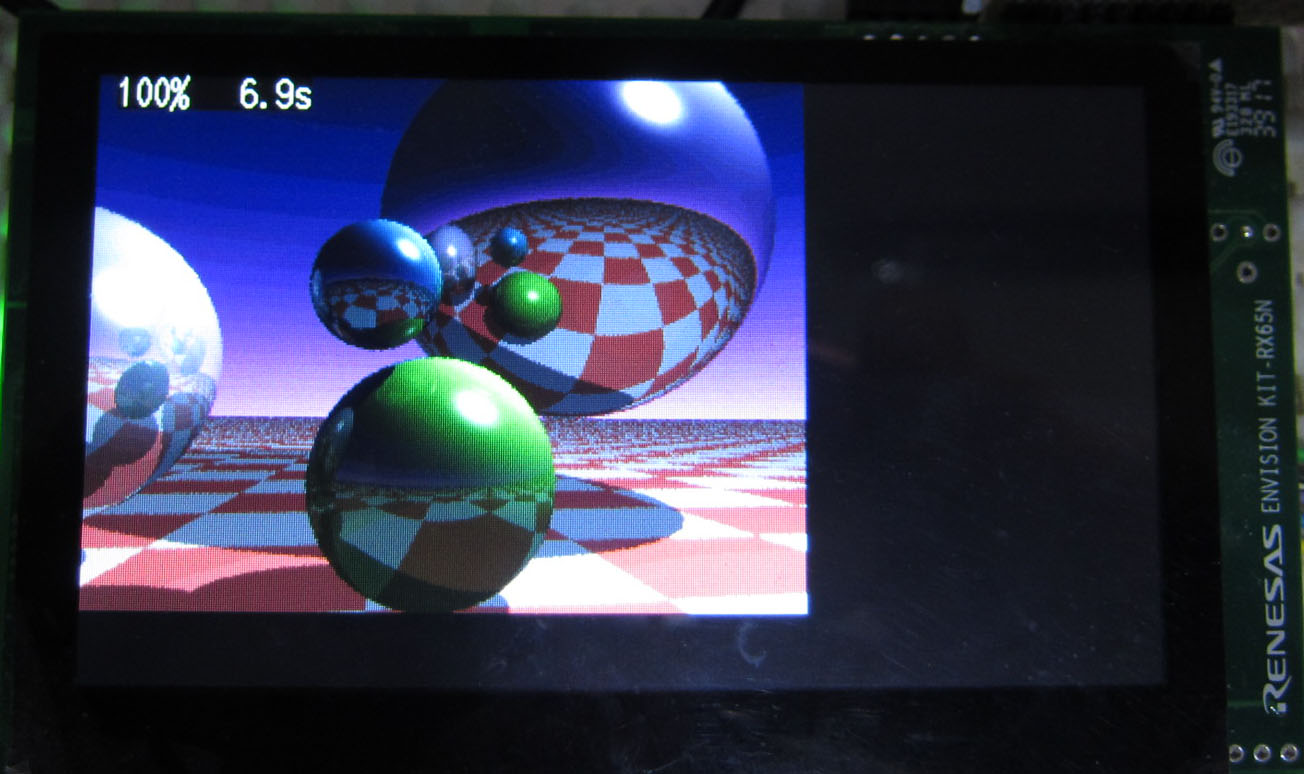
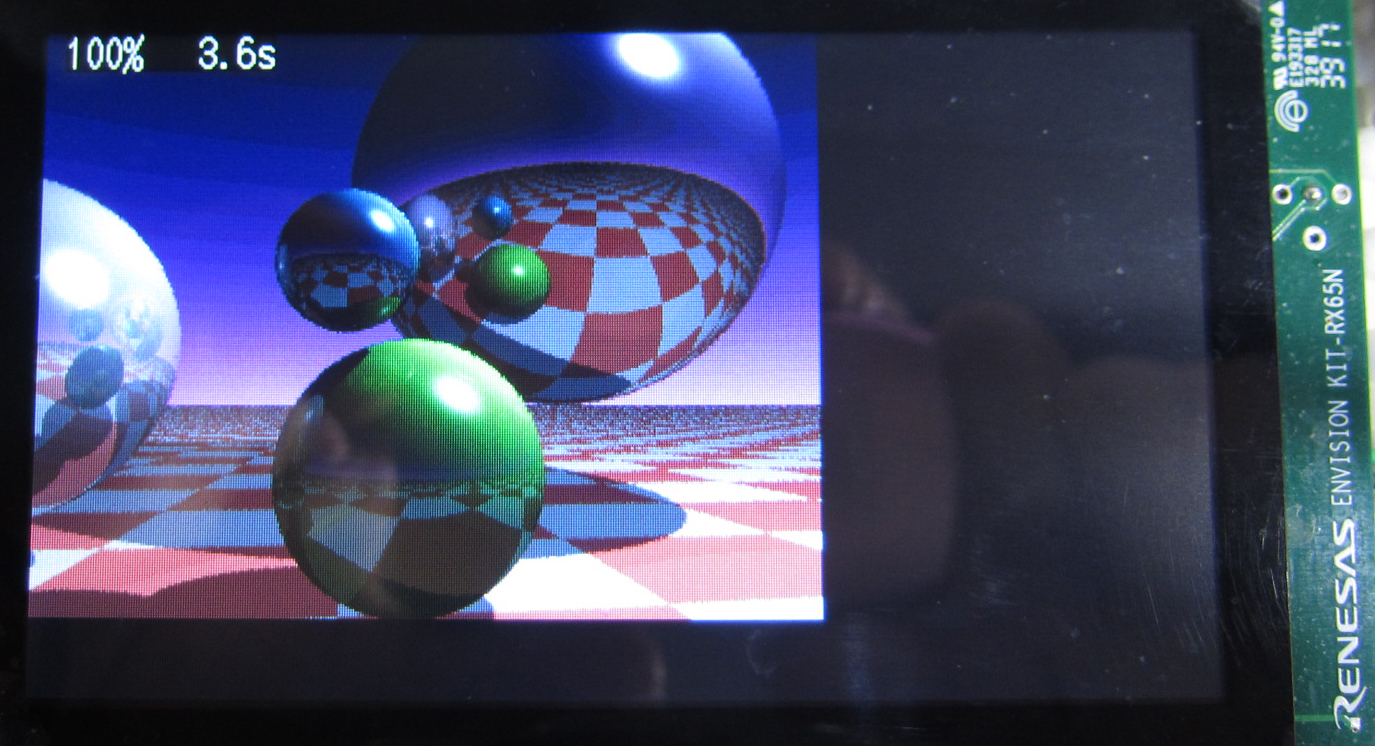
update: sqrtf to FSQRT

diff --git a/RTK5_RAYTRACER/raytracer.hpp b/RTK5_RAYTRACER/raytracer.hpp
@@ -21,6 +21,34 @@ extern "C" {
 	uint32_t millis(void);
 };
 
+#if defined(SIG_RX64M) || defined(SIG_RX71M) || defined(SIG_RX65N) || defined(SIG_RX24T)
+static inline float sqrtf_(float x)
+{
+    __asm __volatile(
+        "fsqrt %0, %0\n" \
+        : "+r"(x) \
+    );
+    return x;
+}
+
+static inline int ceilf_(float x)
+{
+    int y;
+    __asm __volatile(
+        "pushc fpsw\n"
+        "mvtc #0b10, fpsw\n"
+        "round %0, %0\n"
+        "popc fpsw\n"
+        : "=r"(y) \
+        : "r"(x) \
+    );
+    return y;
+}
+#else
+static inline float sqrtf_(float x) { return sqrtf(x); }
+static inline int ceilf_(float x) { return ceilf(x); }
+#endif
+
 /*------------------------------------------------------------------------
   Values you can play with...
 ------------------------------------------------------------------------*/
@@ -83,7 +111,7 @@ struct vec3 {
   vec3 operator*(float s)       const { return vec3(x*s,y*s,z*s);        }    // Vector scale
   float operator%(const vec3& v)const { return x*v.x+y*v.y+z*v.z;        }    // Scalar product
   vec3 operator^(const vec3& v) const { return vec3(y*v.z-z*v.y, z*v.x-x*v.z, x*v.y-y*v.x);  } // Vector product
-  vec3 operator!()              const { return *this*(1.0/sqrtf(*this%*this));  }  // Normalized vector
+  vec3 operator!()              const { return *this*(1.0f/sqrtf_(*this%*this));  }  // Normalized vector
   void operator+=(const vec3& v)      { x+=v.x;  y+=v.y;  z+=v.z;        }
   void operator*=(float s)            { x*=s;    y*=s;    z*=s;          }
 };
@@ -143,7 +171,7 @@ uint8_t trace(const ray& r, float& distance, vec3& normal)
     d = (b*b)-c;
     if (d > 0) {
       // Yes, compute the distance to the hit
-      d = (-b)-sqrtf(d);
+      d = (-b)-sqrtf_(d);
 
       // Is it the closest hit so far?
       if ((d > 0.01) and ((result==SKY) or (d<distance))) {
@@ -156,6 +184,7 @@ uint8_t trace(const ray& r, float& distance, vec3& normal)
   }
   return result;
 }
+
 float raise(float p, uint8_t n)
 {
   while (n--) {
@@ -235,7 +264,7 @@ float sample(ray& r, vec3& color)
 //    int fx = int(ceil(r.o.x*t));
 //    int fy = int(ceil(r.o.y*t));
 //    bool dark = ((fx+fy)&1)!=0;  // Light or dark color?
-    bool dark = (((int)(ceil(r.o.x*t)+ceil(r.o.y*t)))&1);  // Light or dark color? -> fix for AVR compiler
+    bool dark = (((int)(ceilf_(r.o.x*t)+ceilf_(r.o.y*t)))&1);  // Light or dark color? -> fix for AVR compiler
     if (dark) { color.y = color.z = d; }        // g+b => dark => 'red'
     return 0;
   }
@@ -322,6 +351,7 @@ void doRaytrace(int raysPerPixel = 4, int dw = 320, int dh = 240, int q = 1)
 #ifdef ESP8266
     delay(1);
 #endif
+
     char buf[50];
 	auto tm = (millis() - t) / 100;
 ///    snprintf(buf,100,"%3d%% %3ds", (y+q)*100/dh, (millis()-t)/1000);

diff --git a/RTK5_RAYTRACER/README.md b/RTK5_RAYTRACER/README.md
@@ -22,9 +22,8 @@ Envision Kit RX65N を使ったレイ・トレーサー
 ## 備考
  - 元となるソースコードは、Arduino 環境でベンチマークを行う事が主眼なので、オリジナルの実装をなるべく変更しないようにしています。
 ※sqrt() 関数は、sqrtf に変更しています。
-
-## 謝辞
- - macsbug さん<https://macsbug.wordpress.com/2016/12/27/raytracing-with-esp32/>のコードを流用させて頂きました。
+(https://japan.renesasrulz.com/cafe_rene/f/forum5/5169/rx65n-envision-kit)
+※上記、フォーラムで実験されていた「RXv2、FSQRT 命令」を実行するアセンブラマクロに変更   
    
 -----
    
